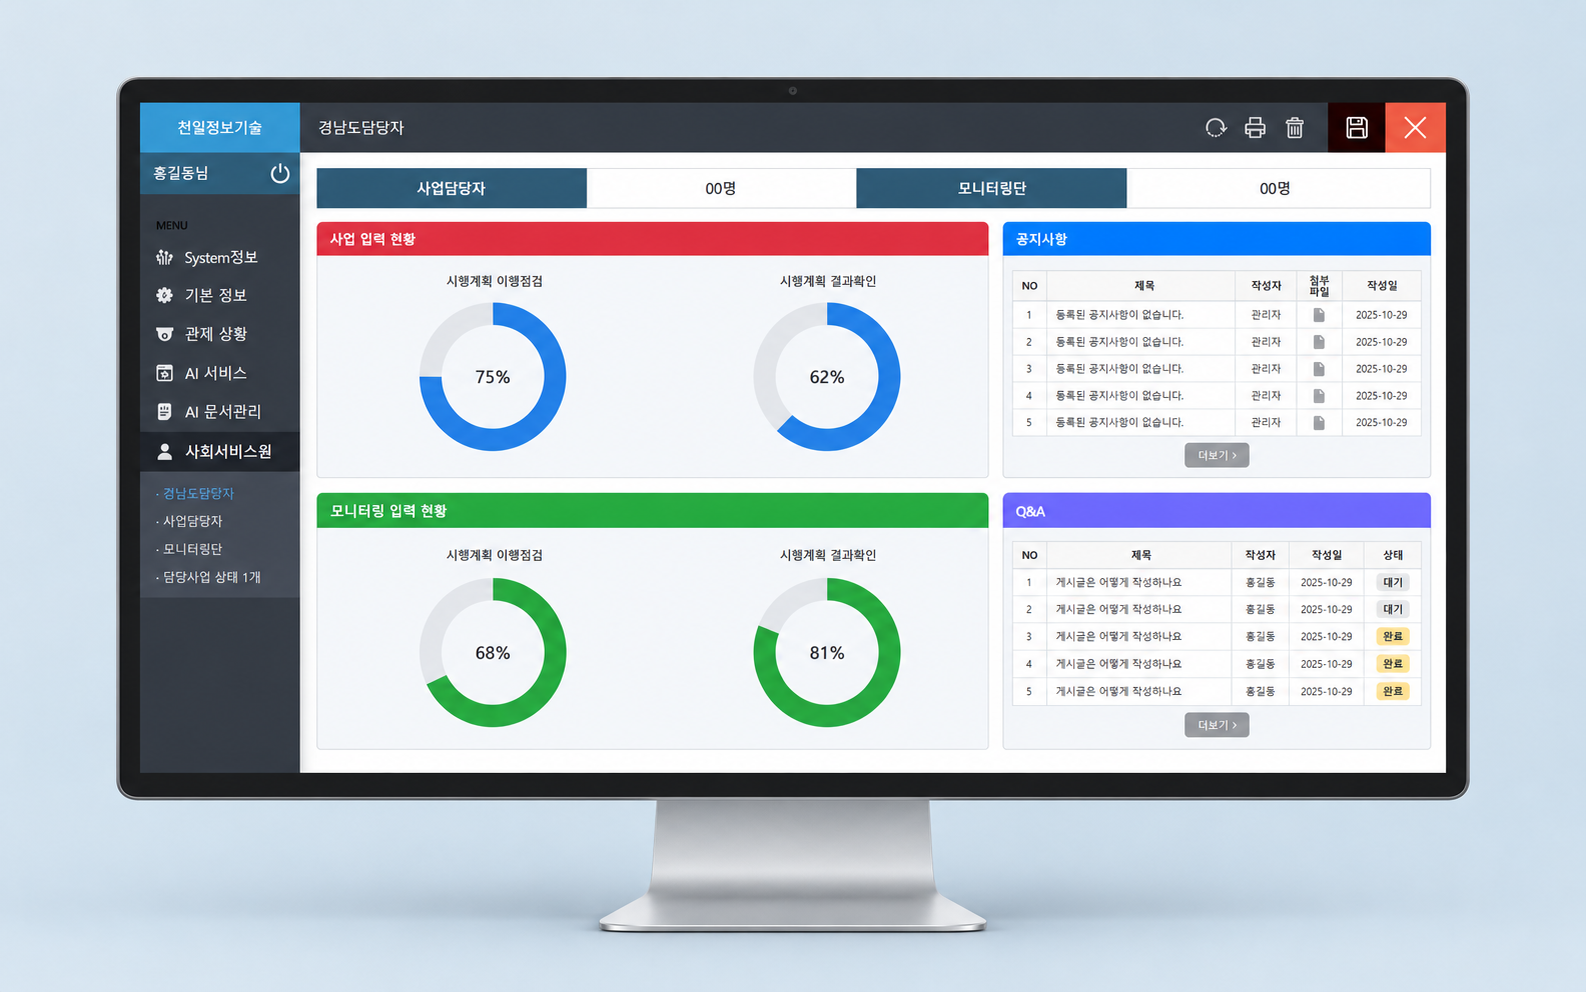
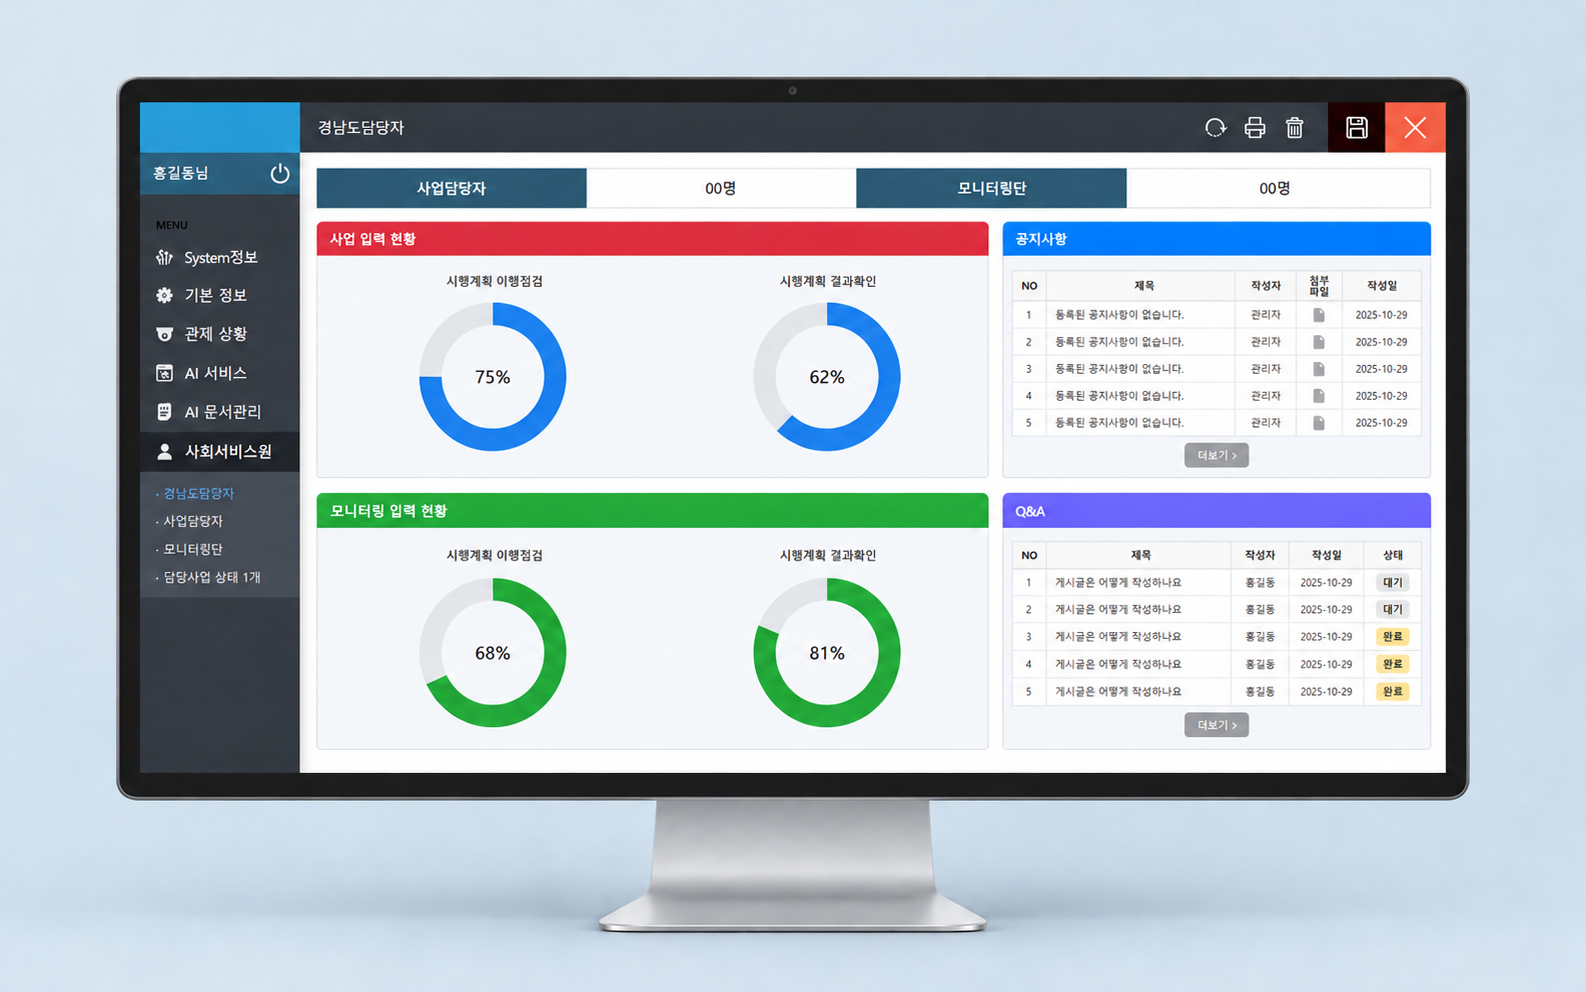
Redact dashboard identifiers and animate archive reveals

diff --git a/js/archive.js b/js/archive.js
@@ -12,6 +12,19 @@
     button.hidden = shown === cards.length;
     progress.textContent = `전체 ${cards.length}개 중 ${shown}개 프로젝트`;
     if (previous) {
+      if (!window.matchMedia('(prefers-reduced-motion: reduce)').matches) {
+        cards.slice(previous, shown).forEach((card, index) => {
+          card.animate([
+            { opacity: 0, transform: 'translateY(20px)' },
+            { opacity: 1, transform: 'translateY(0)' }
+          ], {
+            duration: 450,
+            delay: index * 65,
+            easing: 'cubic-bezier(0.22, 1, 0.36, 1)',
+            fill: 'backwards'
+          });
+        });
+      }
       const first = cards[previous];
       first.setAttribute('tabindex', '-1');
       first.focus({ preventScroll: true });
